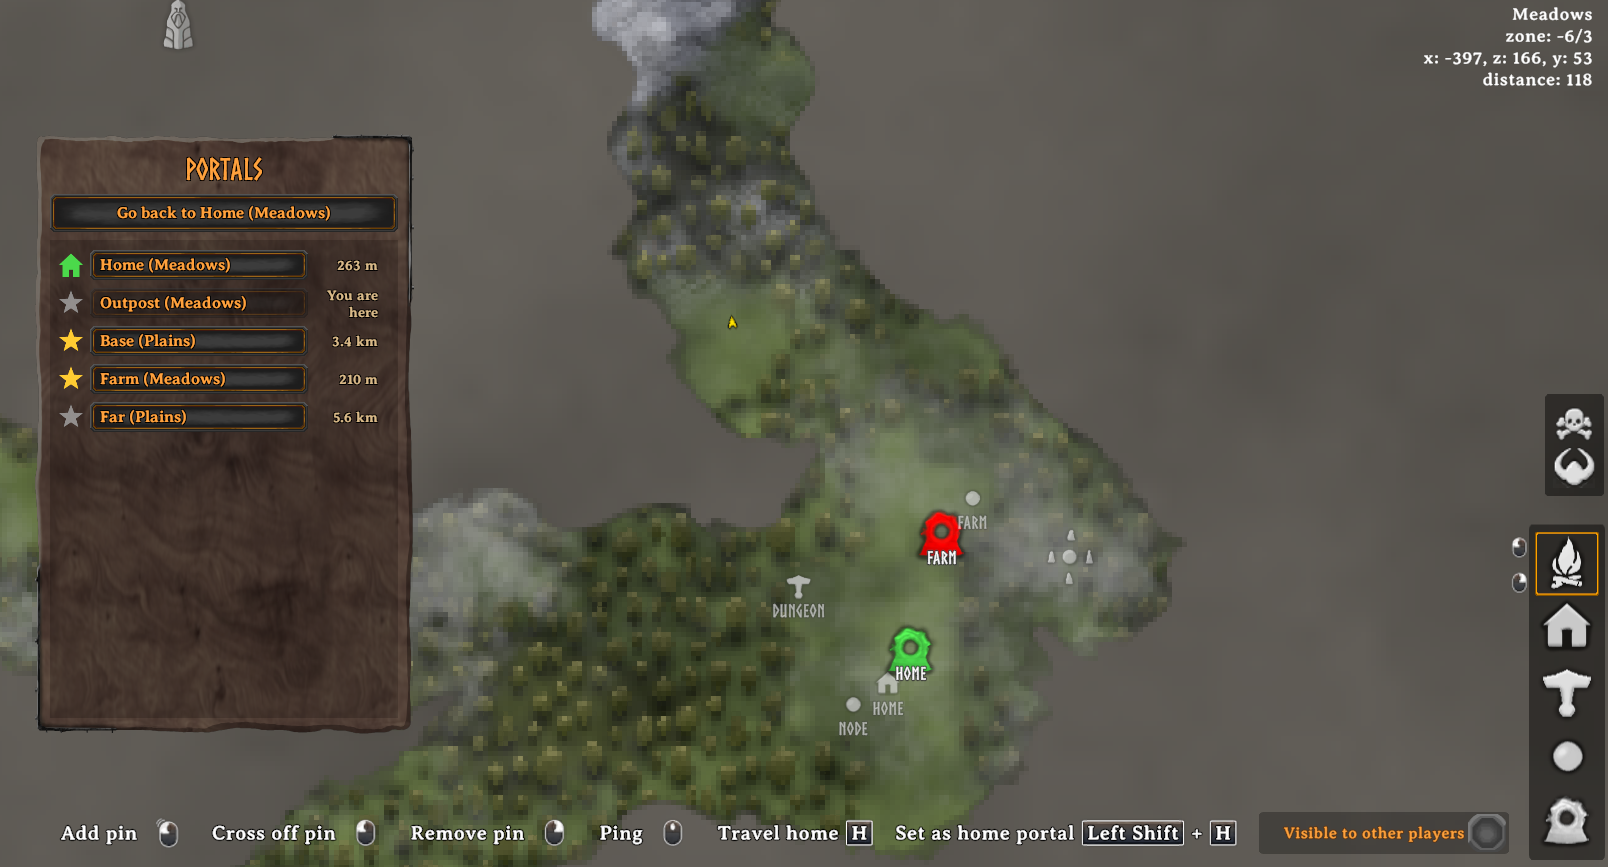
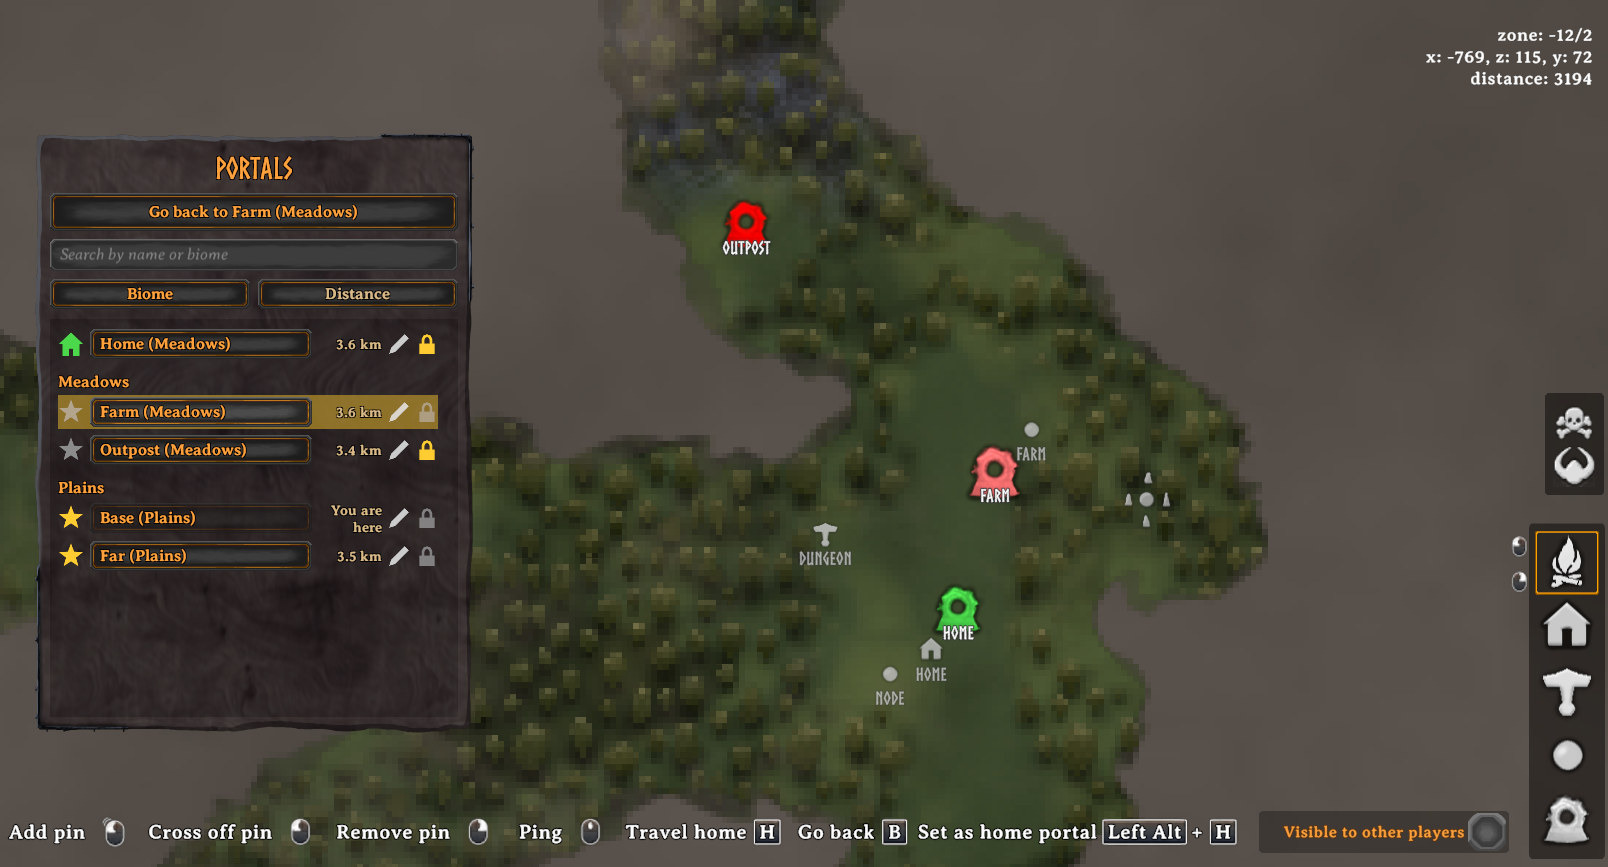
Highlight portals both ways between the portal list and the map (#22)
* Highlight a portal's map icon while hovering it in the list

A RowHover component on each list row tells PortalMapPicker which portal
is under the mouse; PortalPinStyle then brightens that pin, sets vanilla's
m_animate so it pulses like a ping, and draws it in front.

* Highlight both ways: map icon hover lights the list row

PortalMapPicker now tracks the portal under the mouse in the list and on
the map (nearest pin, as for clicks; the crosshair with a gamepad). The
highlighted portal's pin pulses and its list row gets a gold background.

* Pulse the highlighted pin every frame ourselves

Vanilla's m_animate pulse only advances when Minimap.UpdatePins runs, which
is only when pins need an update (e.g. the player moves), and never resets
the size. PortalPinStyle now sets each of our pins' size every frame: a
smooth pulse for the highlighted one, the normal size for the rest.

* Make the hover pulse subtler (1.0x to 1.2x)

* Update game screenshot for improved visuals

---------

diff --git a/UI/PortalPickerPanel.cs b/UI/PortalPickerPanel.cs
@@ -10,6 +10,7 @@ using PortalNetwork.Network;
 using PortalNetwork.Portals;
 
 using UnityEngine;
+using UnityEngine.EventSystems;
 using UnityEngine.UI;
 
 namespace PortalNetwork.UI;
@@ -42,6 +43,7 @@ internal static class PortalPickerPanel
     private static readonly Color ListBackground = new(0f, 0f, 0f, 0.35f);
     private static readonly Color IconIdle = new(1f, 1f, 1f, 0.6f);
     private static readonly Color LockOff = new(1f, 1f, 1f, 0.2f);
+    private static Color RowHighlight => new(StarOn.r, StarOn.g, StarOn.b, 0.25f);
 
     private static GameObject _panel;
     private static Button _goBackButton;
@@ -59,6 +61,10 @@ internal static class PortalPickerPanel
 
     private static readonly List<PortalInfo> Portals = [];
     private static readonly List<GameObject> Rows = [];
+
+    /// <summary>Each portal row's background, lit while that portal is highlighted.</summary>
+    private static readonly Dictionary<ZDOID, Image> RowBackgrounds = [];
+    private static ZDOID _shownHighlight = ZDOID.None;
     private static Vector3 _origin;
     private static ZDOID _current;
 
@@ -441,8 +447,13 @@ internal static class PortalPickerPanel
     {
         GUIManager gui = GUIManager.Instance;
 
-        GameObject row = new("Row", typeof(RectTransform));
+        // A see-through background so the whole row, gaps included, counts as under the mouse.
+        GameObject row = new("Row", typeof(RectTransform), typeof(Image));
         row.transform.SetParent(_content, false);
+        Image background = row.GetComponent<Image>();
+        background.color = Color.clear;
+        RowBackgrounds[portal.Id] = background;
+        row.AddComponent<RowHover>().Portal = portal.Id;
         HorizontalLayoutGroup layout = row.AddComponent<HorizontalLayoutGroup>();
         layout.spacing = 6f;
         layout.childAlignment = TextAnchor.MiddleLeft;
@@ -512,6 +523,28 @@ internal static class PortalPickerPanel
         AddRenameButton(row.transform, portal);
         AddLockButton(row.transform, portal);
         return row;
+    }
+
+    /// <summary>While the mouse is over a portal's row, that portal's icon stands out on the map.</summary>
+    private sealed class RowHover : MonoBehaviour, IPointerEnterHandler, IPointerExitHandler
+    {
+        public ZDOID Portal;
+
+        public void OnPointerEnter(PointerEventData eventData)
+        {
+            PortalMapPicker.Highlight(Portal);
+        }
+
+        public void OnPointerExit(PointerEventData eventData)
+        {
+            PortalMapPicker.Unhighlight(Portal);
+        }
+
+        /// <summary>Rows are rebuilt (sorting, search, grouping) and hidden with the list, without a pointer exit.</summary>
+        private void OnDisable()
+        {
+            PortalMapPicker.Unhighlight(Portal);
+        }
     }
 
     /// <summary>The player as the server sees them, for showing only the buttons they may use (the server checks again).</summary>
@@ -591,8 +624,32 @@ internal static class PortalPickerPanel
         }
     }
 
+    /// <summary>
+    /// Lights the row of the highlighted portal, the one under the mouse in the list or on the map, so the list and the
+    /// map can be matched up. Called every frame; only changes the rows when the highlight moves.
+    /// </summary>
+    internal static void ShowHighlight(ZDOID portal)
+    {
+        if (portal == _shownHighlight)
+        {
+            return;
+        }
+
+        if (RowBackgrounds.TryGetValue(_shownHighlight, out Image previous) && previous != null)
+        {
+            previous.color = Color.clear;
+        }
+        if (RowBackgrounds.TryGetValue(portal, out Image next) && next != null)
+        {
+            next.color = RowHighlight;
+        }
+        _shownHighlight = portal;
+    }
+
     private static void ClearRows()
     {
+        RowBackgrounds.Clear();
+        _shownHighlight = ZDOID.None; // the new rows are lit on the next frame
         foreach (GameObject row in Rows)
         {
             if (row != null)

diff --git a/Map/PortalPinStyle.cs b/Map/PortalPinStyle.cs
@@ -34,11 +34,20 @@ internal static class PortalPinStyle
     private static readonly List<Transform> Icons = [];
     private static readonly List<Transform> Names = [];
 
+    /// <summary>How much of white is mixed into the highlighted portal's colour.</summary>
+    private const float HighlightBrightness = 0.45f;
+
+    /// <summary>The highlighted icon pulses between these sizes (times its normal size), this many times a second.</summary>
+    private const float PulseMin = 1f;
+    private const float PulseMax = 1.2f;
+    private const float PulsesPerSecond = 1.2f;
+
     /// <summary>
     /// Tints the given pins, with the home colour for <paramref name="home"/>, gives favourite portals a ring, and keeps
-    /// their icons and labels drawn in front of all other pins.
+    /// their icons and labels drawn in front of all other pins. The <paramref name="highlighted"/> pin (the portal under
+    /// the mouse in the portal list) is brighter, pulses like a ping and is drawn in front of the rest.
     /// </summary>
-    internal static void Apply(IEnumerable<Minimap.PinData> pins, Minimap.PinData home)
+    internal static void Apply(IEnumerable<Minimap.PinData> pins, Minimap.PinData home, Minimap.PinData highlighted = null)
     {
         Icons.Clear();
         Names.Clear();
@@ -47,10 +56,16 @@ internal static class PortalPinStyle
         {
             if (pin.m_iconElement != null)
             {
-                pin.m_iconElement.color = pin == home ? HomeColor : PortalColor;
+                Color color = pin == home ? HomeColor : PortalColor;
+                pin.m_iconElement.color = pin == highlighted ? Color.Lerp(color, Color.white, HighlightBrightness) : color;
 
                 // Our pins sit exactly on their portal, and favourites are stored by portal position.
                 SetBorder(pin.m_iconElement, favourites.Contains(PortalFavourites.Key(pin.m_pos)));
+            }
+            SetSize(pin, pin == highlighted);
+            if (pin == highlighted)
+            {
+                continue; // added last below, so it is drawn in front
             }
             if (pin.m_uiElement != null)
             {
@@ -62,8 +77,49 @@ internal static class PortalPinStyle
             }
         }
 
+        if (highlighted?.m_uiElement != null)
+        {
+            Icons.Add(highlighted.m_uiElement);
+        }
+        if (highlighted?.m_NamePinData?.PinNameRectTransform != null)
+        {
+            Names.Add(highlighted.m_NamePinData.PinNameRectTransform);
+        }
+
         BringToFront(Icons);
         BringToFront(Names);
+    }
+
+    /// <summary>
+    /// The icon's size: normal, or pulsing while highlighted. Vanilla's own pulse (<c>m_animate</c>, used for pings) only
+    /// moves when the map redraws its pins, which it does when something on it moves, such as the player, and it never
+    /// puts the size back afterwards, so the pulse is done here every frame instead.
+    /// </summary>
+    private static void SetSize(Minimap.PinData pin, bool pulsing)
+    {
+        Minimap minimap = Minimap.instance;
+        if (pin.m_uiElement == null || minimap == null)
+        {
+            return;
+        }
+
+        float size = minimap.m_mode == Minimap.MapMode.Large ? minimap.m_pinSizeLarge : minimap.m_pinSizeSmall;
+        if (pin.m_doubleSize)
+        {
+            size *= 2f;
+        }
+        if (pulsing)
+        {
+            float wave = (Mathf.Sin(Time.unscaledTime * PulsesPerSecond * 2f * Mathf.PI) + 1f) / 2f;
+            size *= Mathf.Lerp(PulseMin, PulseMax, wave);
+        }
+
+        Vector2 current = pin.m_uiElement.rect.size;
+        if (!Mathf.Approximately(current.x, size) || !Mathf.Approximately(current.y, size))
+        {
+            pin.m_uiElement.SetSizeWithCurrentAnchors(RectTransform.Axis.Horizontal, size);
+            pin.m_uiElement.SetSizeWithCurrentAnchors(RectTransform.Axis.Vertical, size);
+        }
     }
 
     /// <summary>

diff --git a/Map/PortalMapPicker.cs b/Map/PortalMapPicker.cs
@@ -128,6 +128,16 @@ internal static class PortalMapPicker
 
     private static void PickAt(Vector2 pointer)
     {
+        Entry best = NearestAt(pointer);
+        if (best != null)
+        {
+            Teleport(best.Portal);
+        }
+    }
+
+    /// <summary>The portal whose icon is under <paramref name="pointer"/> (screen pixels), or null.</summary>
+    private static Entry NearestAt(Vector2 pointer)
+    {
         Entry best = null;
         float bestDistance = float.MaxValue;
 
@@ -150,12 +160,7 @@ internal static class PortalMapPicker
             }
         }
 
-        if (best == null)
-        {
-            return;
-        }
-
-        Teleport(best.Portal);
+        return best;
     }
 
     /// <summary>Used by both the map pins and the portal list.</summary>
@@ -234,6 +239,8 @@ internal static class PortalMapPicker
             }
         }
         Entries.Clear();
+        _listHover = ZDOID.None;
+        _mapHover = ZDOID.None;
         _home = null;
         _entered = ZDOID.None;
         AtHome = false;
@@ -276,8 +283,74 @@ internal static class PortalMapPicker
             }
         }
 
-        PortalPinStyle.Apply(PickerPins, _home?.Pin);
+        UpdateMapHover();
+        PortalPinStyle.Apply(PickerPins, _home?.Pin, HighlightedPin());
+        PortalPickerPanel.ShowHighlight(Highlighted);
         PortalPinStyle.DimOthers(PickerPins, PortalNetworkPlugin._otherPinOpacity.Value);
+    }
+
+    /// <summary>The portal whose row in the portal list is under the mouse.</summary>
+    private static ZDOID _listHover = ZDOID.None;
+
+    /// <summary>The portal whose icon on the map is under the mouse (or the gamepad crosshair).</summary>
+    private static ZDOID _mapHover = ZDOID.None;
+
+    /// <summary>
+    /// The portal that stands out both on the map (its icon pulses) and in the list (its row is lit): the one under
+    /// the mouse, whichever of the two it is over.
+    /// </summary>
+    private static ZDOID Highlighted => _listHover.IsNone() ? _mapHover : _listHover;
+
+    /// <summary>The mouse moved onto a portal's row in the list.</summary>
+    internal static void Highlight(ZDOID portal)
+    {
+        _listHover = portal;
+    }
+
+    /// <summary>The mouse left a portal's row, or the row went away.</summary>
+    internal static void Unhighlight(ZDOID portal)
+    {
+        if (_listHover == portal)
+        {
+            _listHover = ZDOID.None;
+        }
+    }
+
+    /// <summary>Called every frame: which portal icon is under the mouse, or under the crosshair with a gamepad.</summary>
+    private static void UpdateMapHover()
+    {
+        Vector2? pointer = null;
+        if (ZInput.IsMouseActive())
+        {
+            if (!PortalPickerPanel.IsPointerOver())
+            {
+                pointer = ZInput.pointerPosition;
+            }
+        }
+        else if (ZInput.IsGamepadActive())
+        {
+            pointer = new Vector2(Screen.width / 2f, Screen.height / 2f);
+        }
+
+        Entry entry = pointer.HasValue ? NearestAt(pointer.Value) : null;
+        _mapHover = entry != null ? entry.Portal.Id : ZDOID.None;
+    }
+
+    private static Minimap.PinData HighlightedPin()
+    {
+        ZDOID highlighted = Highlighted;
+        if (highlighted.IsNone())
+        {
+            return null;
+        }
+        foreach (Entry entry in Entries)
+        {
+            if (entry.Portal.Id == highlighted)
+            {
+                return entry.Pin;
+            }
+        }
+        return null;
     }
 
     /// <summary>The server announced a new home portal (or none) while the picker may be open.</summary>

diff --git a/CHANGELOG.md b/CHANGELOG.md
@@ -2,6 +2,7 @@
 
 ## Unreleased
 
+- The portal list and the map are linked while you choose where to go: hovering over a portal in the list makes its icon on the map pulse, brighter and in front of the other icons, and hovering over a portal's icon on the map lights up its row in the list. With a gamepad, the portal under the crosshair is highlighted.
 - The portal list can be split into sections with the new **Biome** and **Distance** buttons above it. **Biome** gives a section per biome, in the order the game unlocks them. **Distance** gives a section for each set of portals near each other, such as the portals around one island, headed with how far away it is and in which direction, nearest first. With both on, each biome is split by distance, so, say, the Mistlands in the east and in the west are listed apart. Inside each section the order is the same as the plain list: the portal you are at, then favourites, then by name. The home portal stays at the very top, and the search box still filters the list. The buttons are remembered (`PortalList.GroupByBiome` and `GroupByDistance`), and `PortalList.GroupDistance` (default 600 metres) sets how close portals must be to share a section.
 - The portal list has a search box: type part of a portal's name or biome to show only the portals that match. Typing in it doesn't trigger the map's keys or the portal keys.
 - Portals can be renamed from the portal list with the pencil next to each one, using the same naming box as at the portal, even when the portal is far away. By default anyone who can see a portal can rename it, as anyone with access can rename it while standing at it.

diff --git a/README.md b/README.md
@@ -14,6 +14,7 @@ To show/hide the portal icons on the map and minimap, open the map as normal and
 
 Walking into a portal also opens a list of every portal you can travel to, next to the map.
 
+- Hover over a portal in the list to make its icon on the map pulse, or over its icon on the map to light up its row in the list.
 - Type in the search box to show only the portals whose name or biome matches.
 - Use the **Biome** and **Distance** buttons to split the list into sections: a section per biome, a section for each set of portals near each other (such as one island's), or both, so the same biome in different parts of the world is listed apart.
 - Click the star next to a portal to make it a favourite. Favourites come first in the list and have a gold ring on the map.
